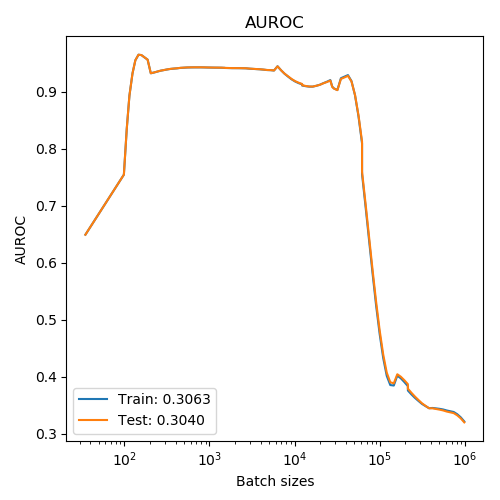
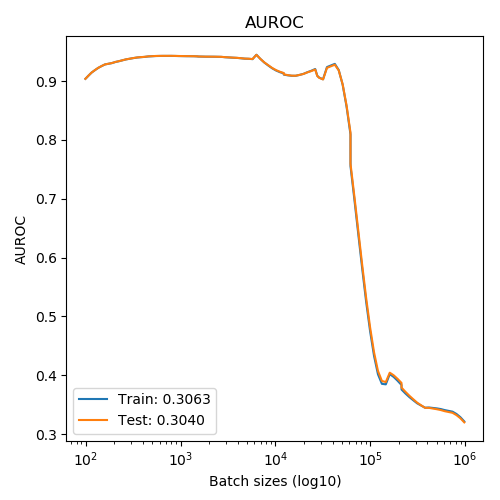
Prepared experiment for last missing batch sizes

diff --git a/udbnn/utils/get_batch_sizes.py b/udbnn/utils/get_batch_sizes.py
@@ -3,6 +3,10 @@ from extra_keras_utils import set_seed
 
 def get_batch_sizes(resolution:int, minimum:int, size:int, seed:int, base:float=1.1, delta:int=10):
     set_seed(seed)
+    print(resolution, minimum, size, seed, base, delta)
     batch_sizes = base**np.arange(delta, delta+resolution)
     np.random.shuffle(batch_sizes)
-    return minimum+np.ceil(batch_sizes/np.max(batch_sizes)*(size-minimum)).astype(int)
+    batch_sizes = minimum+np.ceil(batch_sizes/np.max(batch_sizes)*(size-minimum)).astype(int)
+    batch_sizes = np.array(list(set(batch_sizes[batch_sizes<100])))
+    print(batch_sizes)
+    return batch_sizes

diff --git a/udbnn/collect.py b/udbnn/collect.py
@@ -15,7 +15,7 @@ def collect(target:str):
         dfs.append(tail)
         
     concat = pd.concat(dfs).sort_index()
-    concat.index.name = "Batch sizes"
+    concat.index.name = "Batch sizes (log10)"
     os.makedirs("history", exist_ok=True)
     plot_history(concat, customization_callback=customize_axis, path="history", single_graphs=True)
     os.makedirs("interpolated_history", exist_ok=True)
